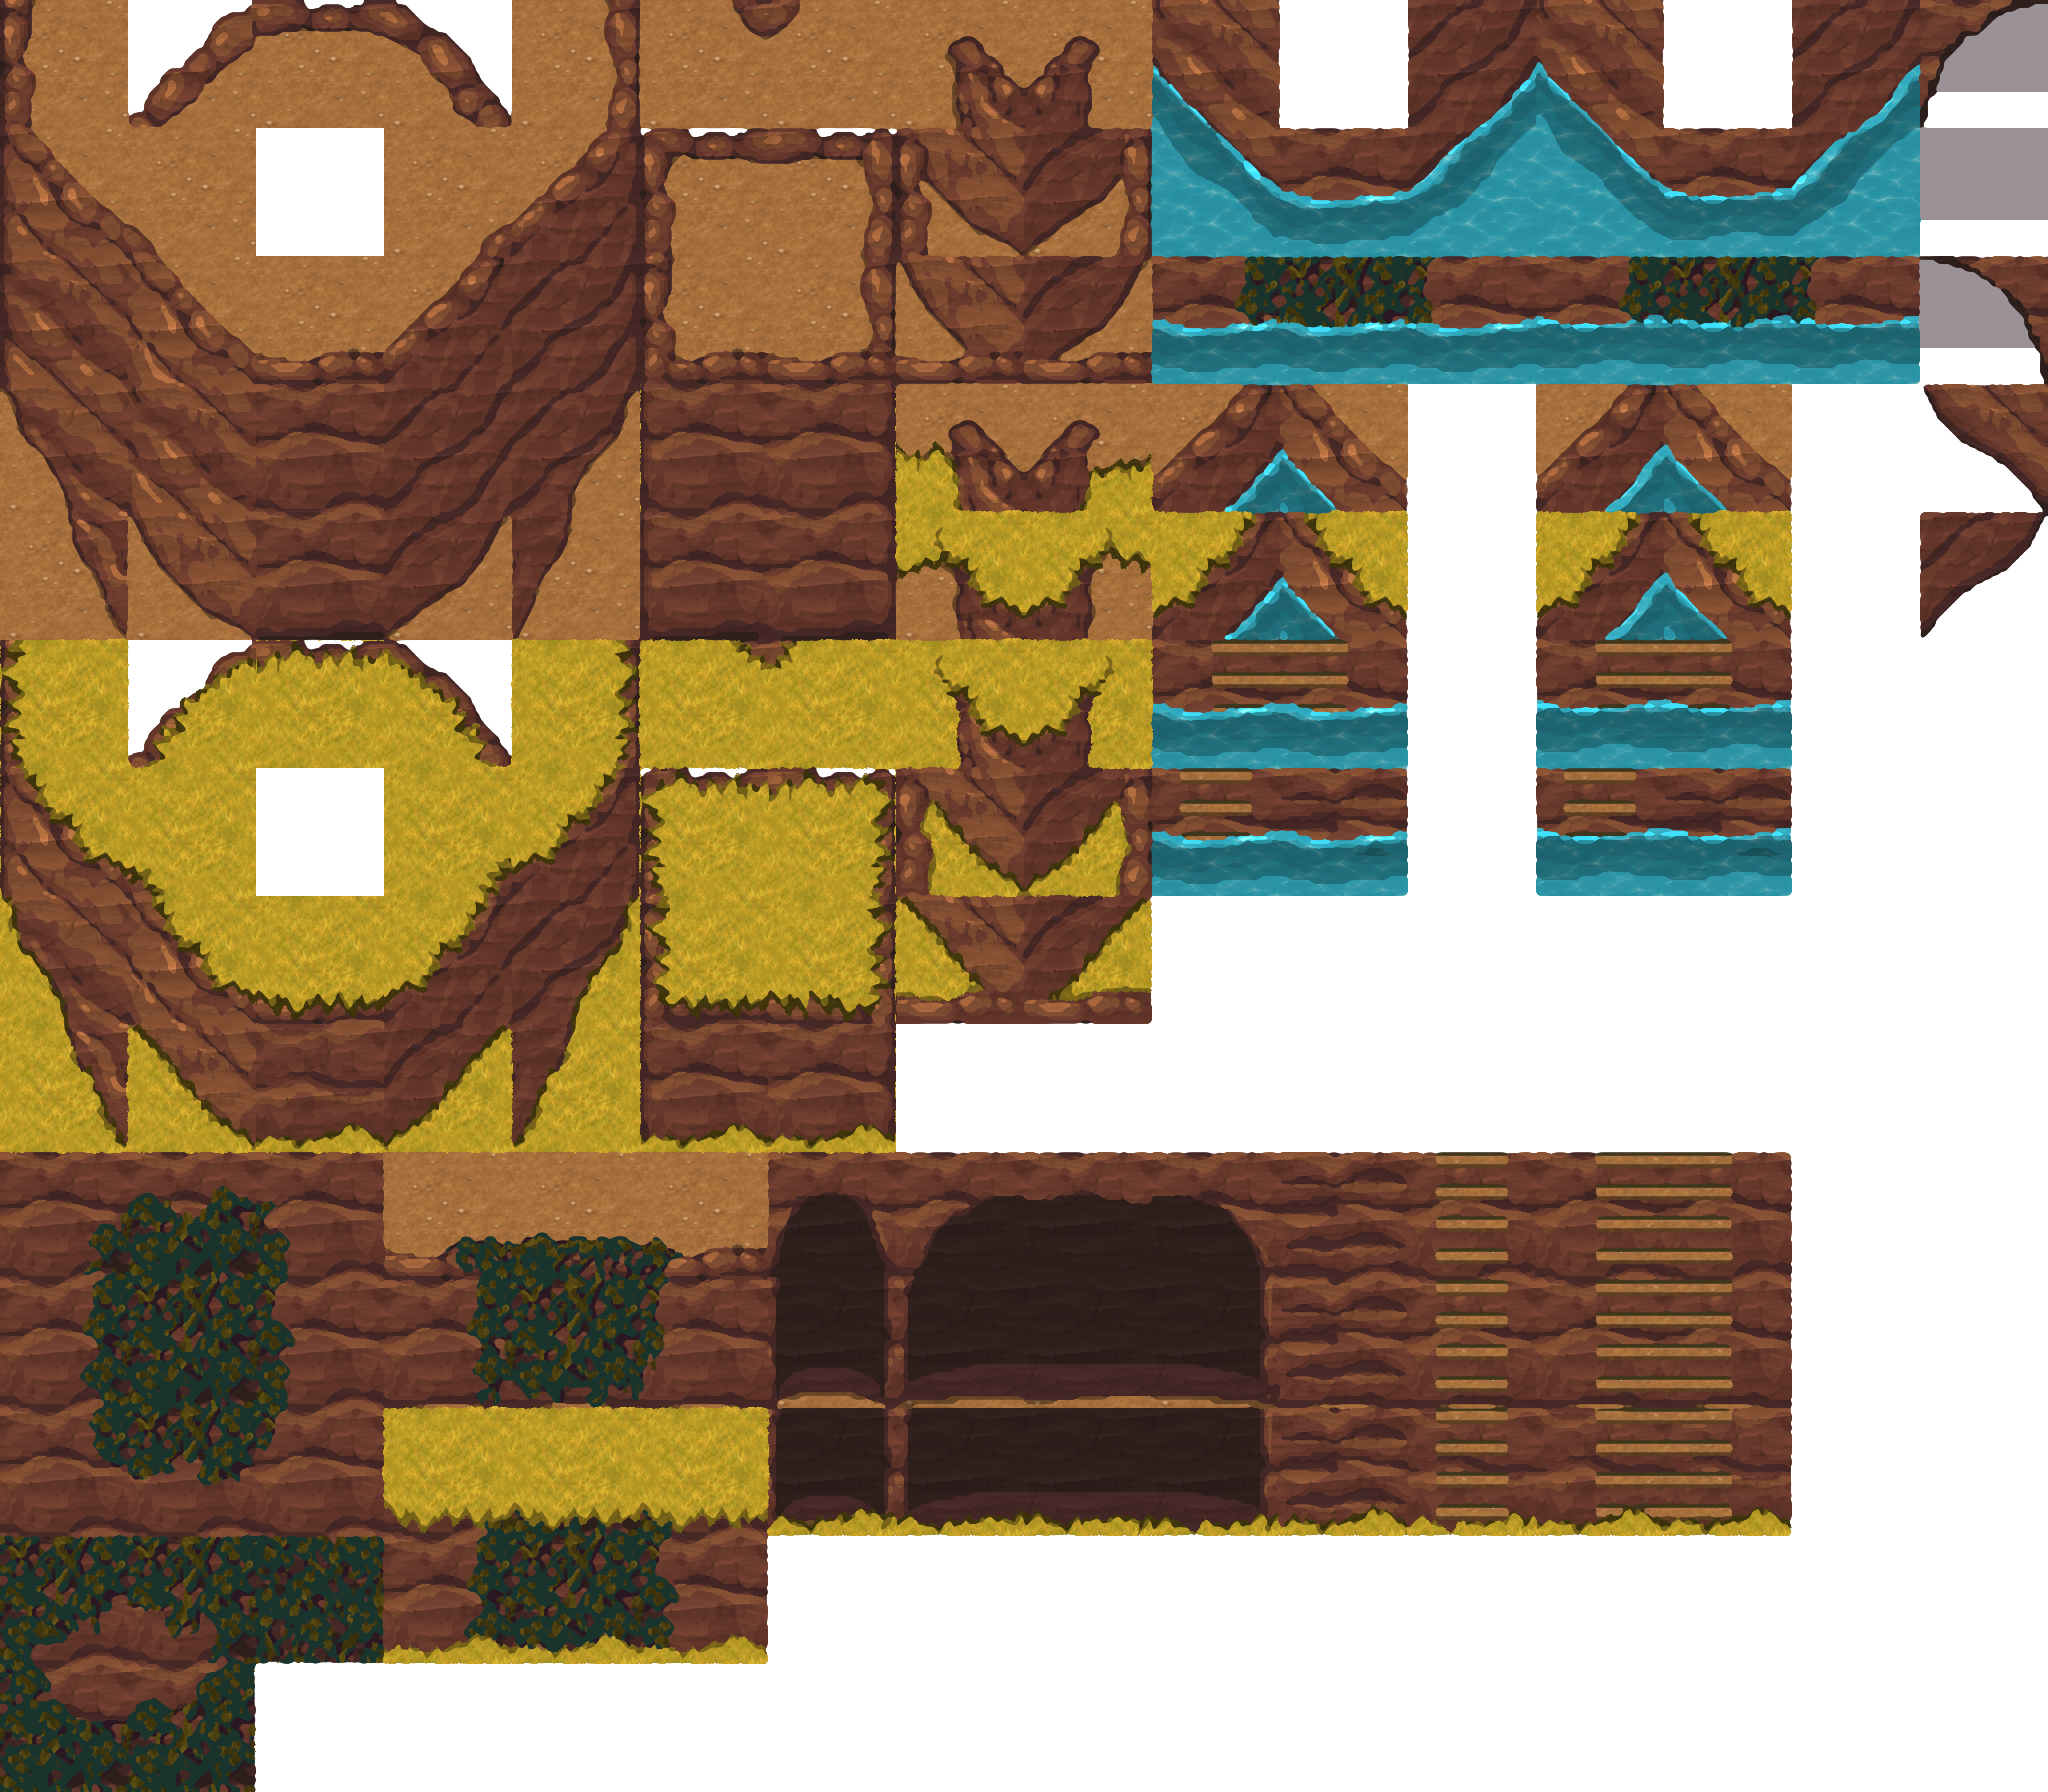
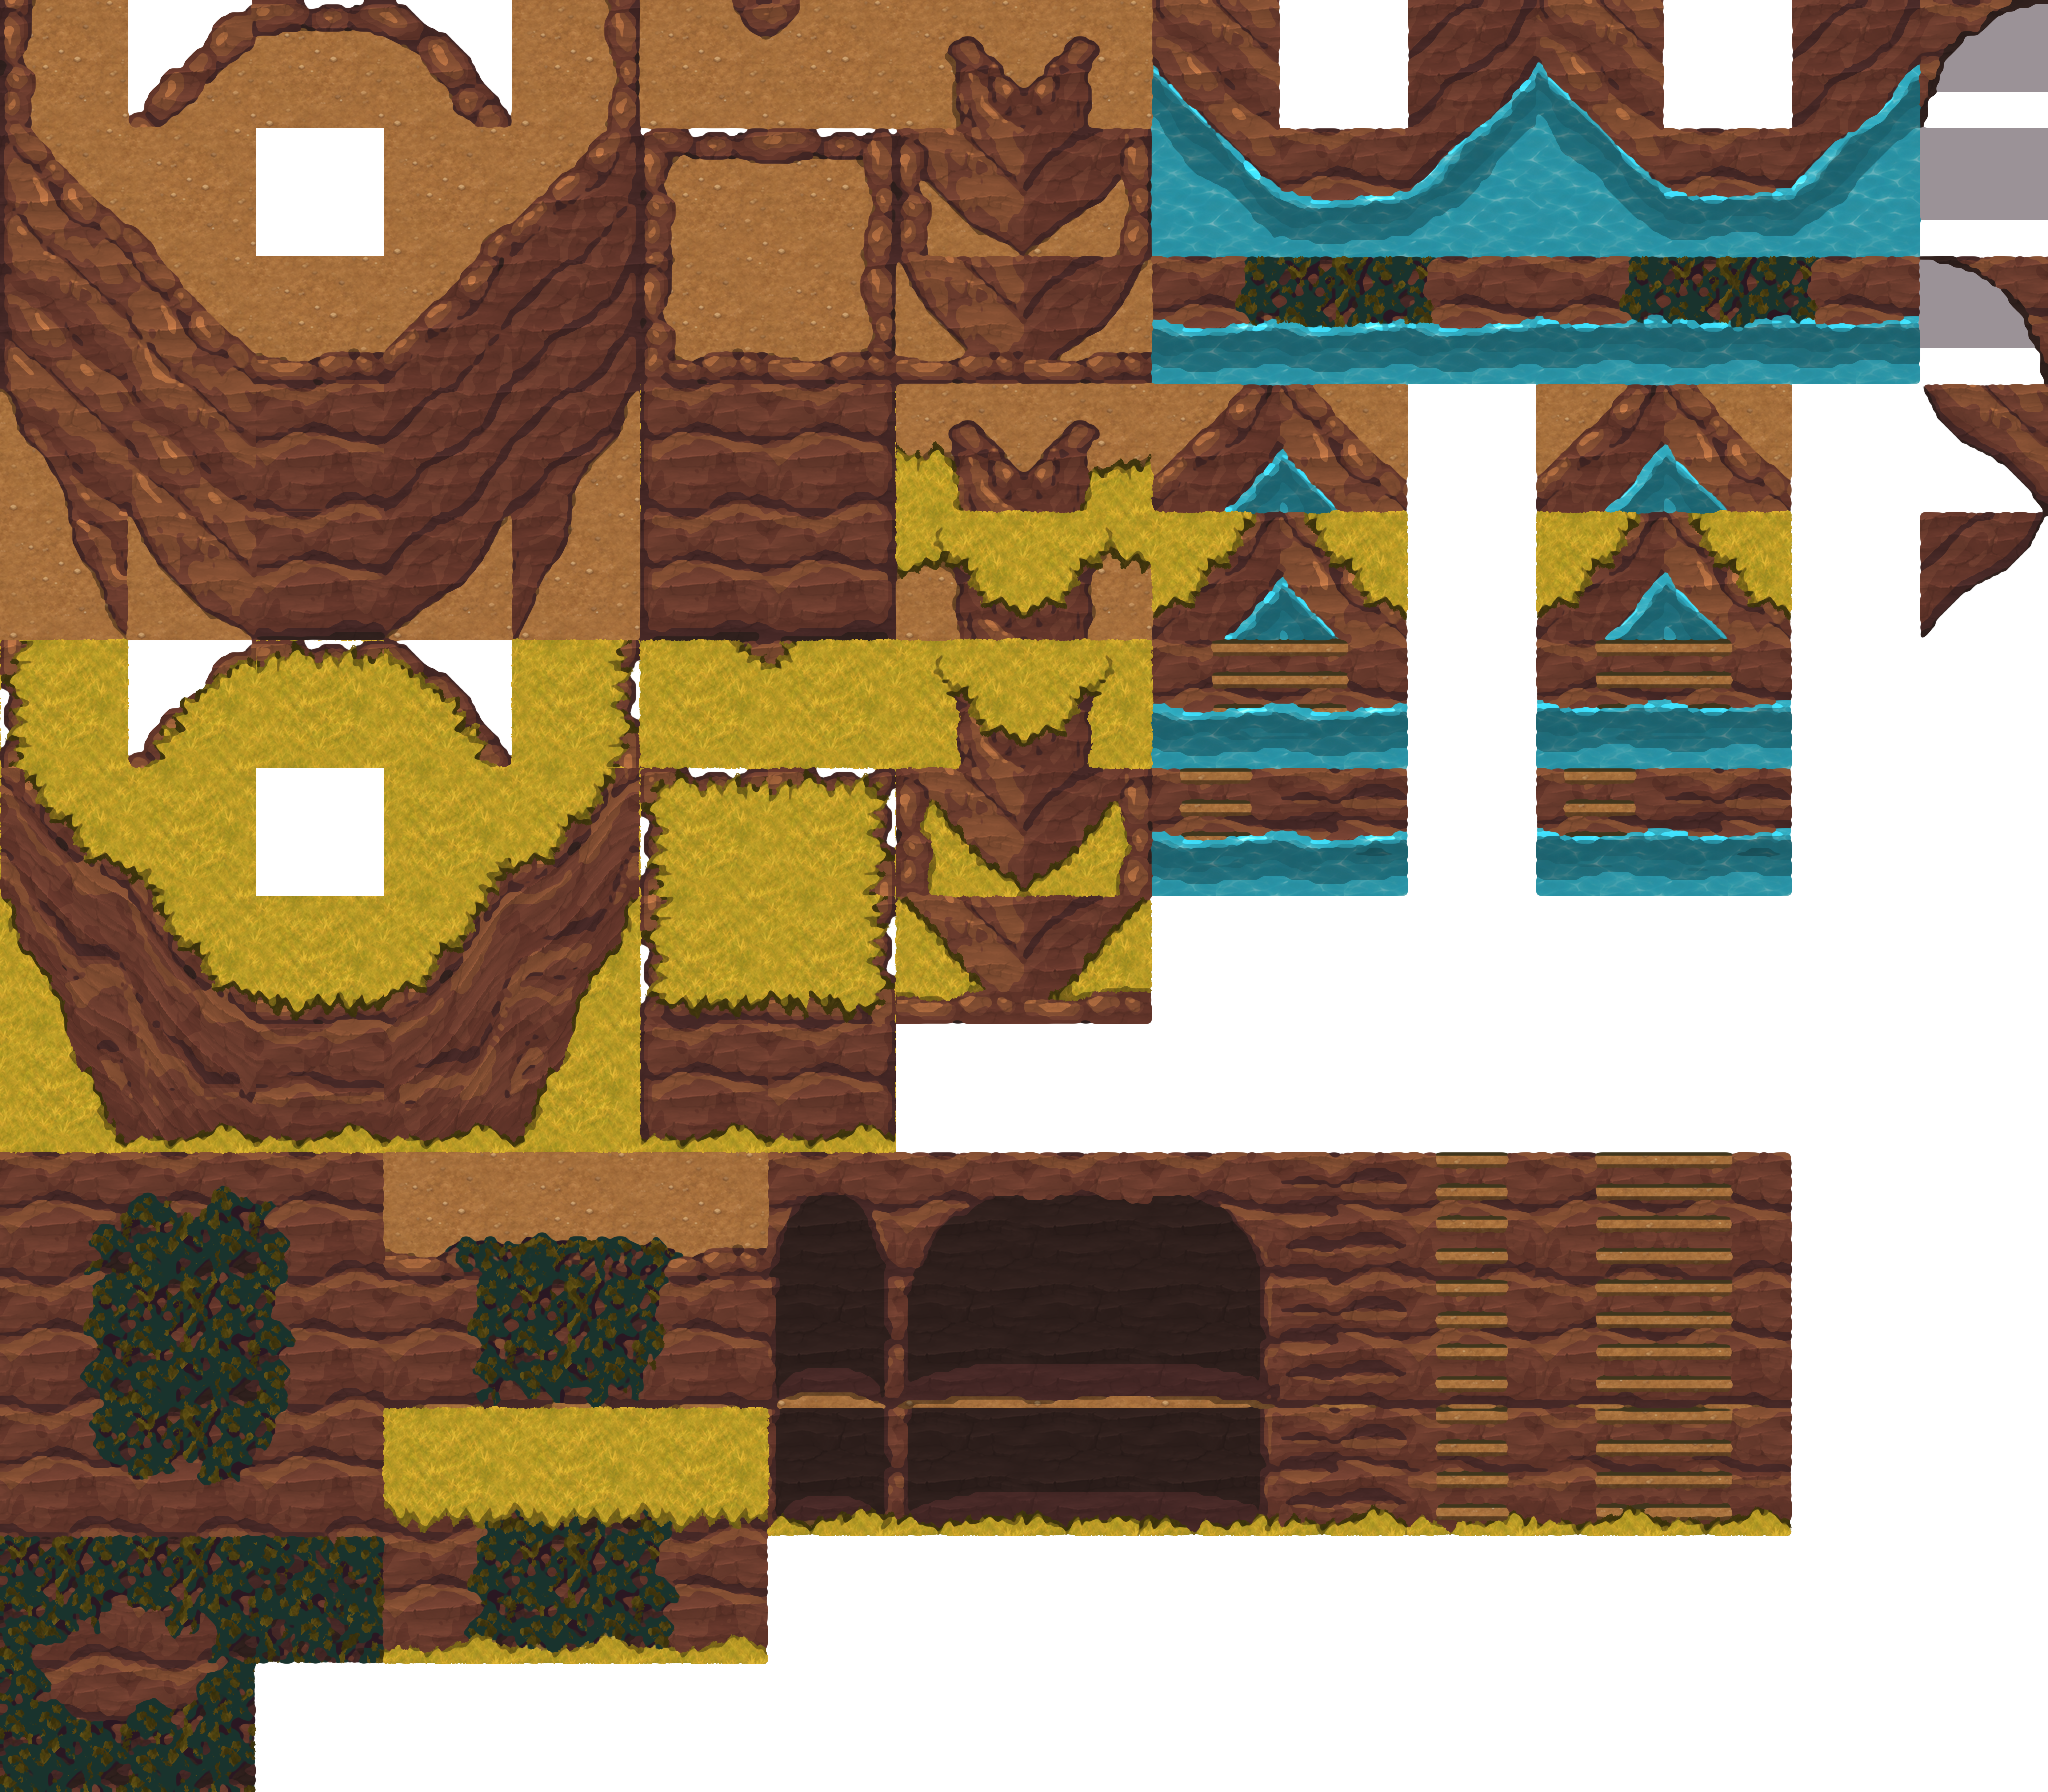
fix(map): angled crags come down on one foot; crag sides rimmed like the top
The LPC sheet never drew the pieces cliffs.js sets side by side on an
angled crag's front: its outer foot (0,8) is a spike of rock cut off
straight at the cell edge beside a wedge of grass in (1,8), and its
strata jump from piece to piece. The generator now mends the art before
it upscales (scripts/terrain_modern/cliff_fixes.py, one pixel remap for
every season): the wedge is filled so the face comes down to one flat
foot, and the slanted rock is redrawn from the straight front's strata,
bent along the rim and foot, with the painted grain's ledges sheared the
same way, so the bands run on unbroken and round into the straight front.
The sides of a crag's top, a one-pixel line of sideways tufts that
smoothed into a spiky dark fringe, are now the top rim turned on its
side, mitred at the corners.

Claude-Session: https://claude.ai/code/session_015H8bBwBoYmHtzQn6aSaAEB

Changed region(s): [[0.1875, 0.3438, 0.3438, 0.6562], [0.0, 0.3438, 0.125, 0.6562], [0.4062, 0.4375, 0.4375, 0.5625]]

diff --git a/scripts/terrain_modern/cliff_fixes.py b/scripts/terrain_modern/cliff_fixes.py
@@ -1,0 +1,171 @@
+# Mend the LPC cliff art where cliffs.js puts pieces side by side that the
+# LPC sheet never drew together. build_cliff.py runs this on every season's
+# sheet before it smooths and upscales, as a pure pixel REMAP (each mended
+# pixel copies another pixel of the same sheet), worked out on the spring
+# sheet and applied alike to all, so materials and seasonal colours agree.
+#
+# 1. The angled front (cells (0..1, 6..8) and their mirror (3..4, 6..8)):
+#    - its outer foot (0,8) is a spike of rock cut off straight at the cell's
+#      right edge, with a wedge of grass beside it in (1,8): the wedge is
+#      filled with rock, so the face comes down to one flat foot whose bottom
+#      edge is the straight front's (2,8);
+#    - its rock is redrawn from the straight front's own strata (2,7)/(2,8),
+#      bent to run along the rim above and the foot below, so the bands run
+#      on unbroken from piece to piece and round into the straight front.
+# 2. The sides of a crag's top (TOP.l / tl / bl and their mirrors): the LPC
+#    side rim is a one-pixel line of sideways tufts that smooths into a spiky
+#    dark fringe; it is replaced by the top rim (2,5) turned on its side, so
+#    the sides read like the top edge, mitred at the corners.
+import numpy as np
+from scipy import ndimage
+
+C = 32
+ROCK = {(107, 60, 46), (96, 52, 41), (127, 76, 49), (68, 39, 37), (46, 31, 28), (174, 107, 63)}
+FOOTB = 7    # rows of the foot's shading, anchored to the face's bottom
+WB = 10      # width of a side rim (rows of the top rim turned on its side)
+
+
+def _rock_mask(spr):
+    rgb = spr[..., :3].astype(np.int32)
+    key = (rgb[..., 0] << 16) | (rgb[..., 1] << 8) | rgb[..., 2]
+    keys = np.array([(r << 16) | (g << 8) | b for r, g, b in ROCK])
+    return np.isin(key, keys) & (spr[..., 3] == 255)
+
+
+def _angled_side(spr, rock, flip):
+    """Remap for one side of the angled front: a list of (dst, src) sheet coords."""
+    y0 = 6 * C
+
+    # The side's frame: X 0..95 over its outer column, inner column, straight front;
+    # Y 0..95 over rows 6..8 (the right side is mirrored into the same frame)
+    def sx(X):
+        return 5 * C - 1 - X if flip else X
+
+    def at(Y, X):
+        return y0 + Y, sx(X)
+
+    R = np.array([[rock[at(Y, X)] for X in range(3 * C)] for Y in range(3 * C)])
+    # The straight front's rock in each of its columns: top (rim) and bottom (foot)
+    a = np.array([np.argmax(R[:, 2 * C + x]) for x in range(C)])
+    b = np.array([3 * C - 1 - np.argmax(R[::-1, 2 * C + x]) for x in range(C)])
+    # The outer edge of the foot (the spike's left side), as a line
+    ys, xs_ = [], []
+    for Y in range(2 * C, 3 * C - 6):
+        row = np.nonzero(R[Y, :C])[0]
+        if len(row):
+            ys.append(Y)
+            xs_.append(row[0])
+    k, m = np.polyfit(ys, xs_, 1)
+
+    def xo(Y):
+        return k * Y + m
+
+    # The new face: its rock, the grass wedge beside the spike filled, and the
+    # straight front's foot carried along under it
+    face = R[:, :2 * C].copy()
+    band = np.zeros_like(face)
+    for Y in range(2 * C, 3 * C):
+        for X in range(2 * C):
+            if X <= xo(Y) + 1:
+                continue
+            if Y <= b[X % C]:
+                face[Y, X] = True
+            else:
+                band[Y, X] = True
+                face[Y, X] = False
+    # Rim and foot of the face, column by column, as offsets from the straight front's
+    yr = np.array([np.argmax(face[:, X]) for X in range(2 * C)], np.float32)
+    yb = np.array([3 * C - 1 - np.argmax(face[::-1, X]) for X in range(2 * C)], np.float32)
+    A, B = float(np.median(a)), float(np.median(b))     # (its rim's tufts make a ragged)
+    off_t = np.concatenate([yr - A, np.zeros(C)])
+    off_b = np.concatenate([yb - B, np.zeros(C)])
+    off_t = ndimage.gaussian_filter1d(ndimage.median_filter(off_t, 7, mode="nearest"), 4, mode="nearest")
+    off_b = ndimage.gaussian_filter1d(ndimage.median_filter(off_b, 7, mode="nearest"), 4, mode="nearest")
+    ramp = np.clip((2 * C - np.arange(3 * C)) / 4.0, 0, 1)   # into the straight front: no offset
+    off_t, off_b = off_t * ramp, off_b * ramp
+    # (bands keep their thickness across the slope, not up and down it)
+    cos_t = 1 / np.sqrt(1 + np.gradient(off_t) ** 2)
+    cos_b = 1 / np.sqrt(1 + np.gradient(off_b) ** 2)
+
+    pairs = []
+    for Y in range(3 * C):
+        for X in range(2 * C):
+            x = X % C
+            if band[Y, X]:
+                pairs.append((at(Y, X), at(Y, 2 * C + x)))
+                continue
+            if not face[Y, X]:
+                continue
+            if B + off_b[X] - Y < FOOTB:
+                v = B - (B + off_b[X] - Y) * cos_b[X]
+            else:
+                v = A + (Y - A - off_t[X]) * cos_t[X]
+                lo, hi = A + 3, B - FOOTB
+                if v >= hi:
+                    v = lo + (v - lo) % (hi - lo)
+            v = int(round(min(max(v, a[x]), b[x])))
+            pairs.append((at(Y, X), at(v, 2 * C + x)))
+    return pairs, off_t
+
+
+def _side_rims():
+    """Remap: the sides of a crag's top become its top rim (2,5) turned on its side."""
+    S = (5 * C, 2 * C)       # (2,5), the top rim
+
+    def s(col, row):        # a pixel of the top rim: its column along the edge, row in from it
+        return S[0] + row, S[1] + col % C
+
+    pairs = []
+
+    def put(cell, x, y, src):
+        c, r = cell
+        pairs.append(((r * C + y, c * C + x), src))
+
+    for y in range(C):
+        for x in range(C):
+            xr = C - 1 - x                       # in from the right edge
+            # left side: TOP.l (0,5); TOP.tl (5,6) below its mitre; TOP.bl (5,7) above its mitre
+            if x < WB:
+                put((0, 5), x, y, s(y, x))
+                if x < y:
+                    put((5, 6), x, y, s(y, x))
+                if x < C - 1 - y:
+                    put((5, 7), x, y, s(y, x))
+            if y < WB and y <= x:
+                put((5, 6), x, y, s(x, y))
+            # right side, mirrored (the rim's columns run the other way up it)
+            if xr < WB:
+                put((4, 5), x, y, s(C - 1 - y, xr))
+                if xr < y:
+                    put((6, 6), x, y, s(C - 1 - y, xr))
+                if x > y:
+                    put((6, 7), x, y, s(C - 1 - y, xr))
+            if y < WB and y <= xr:
+                put((6, 6), x, y, s(x, y))
+    return pairs
+
+
+def remap(spr, K):
+    """All the mends for a sheet, worked out on the spring sheet: ([(dst, src)], shear)
+    where shear {(c, r): per output column, rows to shift the rock's grain by} lays
+    the painted rock's ledges along the bent strata of the angled front's sides."""
+    rock = _rock_mask(spr)
+    left, off_l = _angled_side(spr, rock, False)
+    right, off_r = _angled_side(spr, rock, True)
+    shear = {}
+    xo = (np.arange(C * K) + 0.5) / K - 0.5
+    for r in (6, 7, 8):
+        for c in (0, 1):
+            shear[(c, r)] = np.interp(c * C + xo, np.arange(3 * C), off_l) * K
+        for c in (3, 4):
+            shear[(c, r)] = np.interp(5 * C - 1 - (c * C + xo), np.arange(3 * C), off_r) * K
+    return left + right + _side_rims(), shear
+
+
+def apply(arr, pairs):
+    """Apply a remap to a sheet (any season): every pixel read from the unmended sheet."""
+    out = arr.copy()
+    d = np.array([p[0] for p in pairs])
+    s = np.array([p[1] for p in pairs])
+    out[d[:, 0], d[:, 1]] = arr[s[:, 0], s[:, 1]]
+    return out

diff --git a/scripts/terrain_modern/build_cliff.py b/scripts/terrain_modern/build_cliff.py
@@ -19,6 +19,11 @@
 # layout); its colour from the season's sheet. Winter: wherever the winter
 # sheet has snow, the painted snow.
 #
+# Mends (cliff_fixes.py, run first on every season alike): the angled front's
+# feet joined into one foot with its strata bent round from the straight
+# front's, and the sides of a crag's top drawn as its top rim turned on its
+# side (the LPC sheet never drew those pieces side by side).
+#
 # Seams: each cell is smoothed with a margin of the cells cliffs.js lays round
 # it (scripts/terrain_modern/cliff_layout.py), so pieces that meet in the game
 # are smoothed as one picture and meet exactly.
@@ -30,6 +35,7 @@ from scipy import ndimage
 
 sys.path.insert(0, os.path.dirname(os.path.abspath(__file__)))
 from cliff_layout import adjacency  # noqa: E402
+import cliff_fixes  # noqa: E402
 
 HERE = os.path.dirname(os.path.abspath(__file__))
 SEASON = sys.argv[1]
@@ -104,6 +110,9 @@ ROCK_GRAIN = np.clip(1 + GRAIN * (_rk / np.maximum(_rk_lo, 1) - 1), 0.6, 1.4).as
 def main():
     spr = np.asarray(Image.open(os.path.join(HERE, 'lpc_cliff_spring.png')).convert('RGBA'))
     sea = np.asarray(Image.open(os.path.join(HERE, f'lpc_cliff_{SEASON}.png')).convert('RGBA'))
+    # Mend the pieces the LPC sheet never drew side by side (cliff_fixes.py)
+    mend, shear = cliff_fixes.remap(spr, K)
+    spr, sea = cliff_fixes.apply(spr, mend), cliff_fixes.apply(sea, mend)
     H, W = spr.shape[:2]
 
     # Classes: one per (material, colour), with the fills merged per material.
@@ -220,7 +229,12 @@ def main():
         a = np.zeros((T, T), np.float32)
         for j, i in enumerate(present):
             wa = wts[j] * alphas[i]
-            rgb += wa[..., None] * colours[i]
+            col = colours[i]
+            if keys[i][0] == 'rock' and (cx, cy) in shear:
+                # (the angled front's sides: the grain's ledges run along its bent strata)
+                yy = (np.arange(T)[:, None] - np.round(shear[(cx, cy)])[None, :].astype(int)) % T
+                col = np.array(keys[i][1], np.float32) * ROCK_GRAIN[yy, np.arange(T)[None, :]][..., None]
+            rgb += wa[..., None] * col
             a += wa
         rgb = rgb / np.maximum(a, 1e-6)[..., None]
         out[cy*T:(cy+1)*T, cx*T:(cx+1)*T, :3] = rgb
